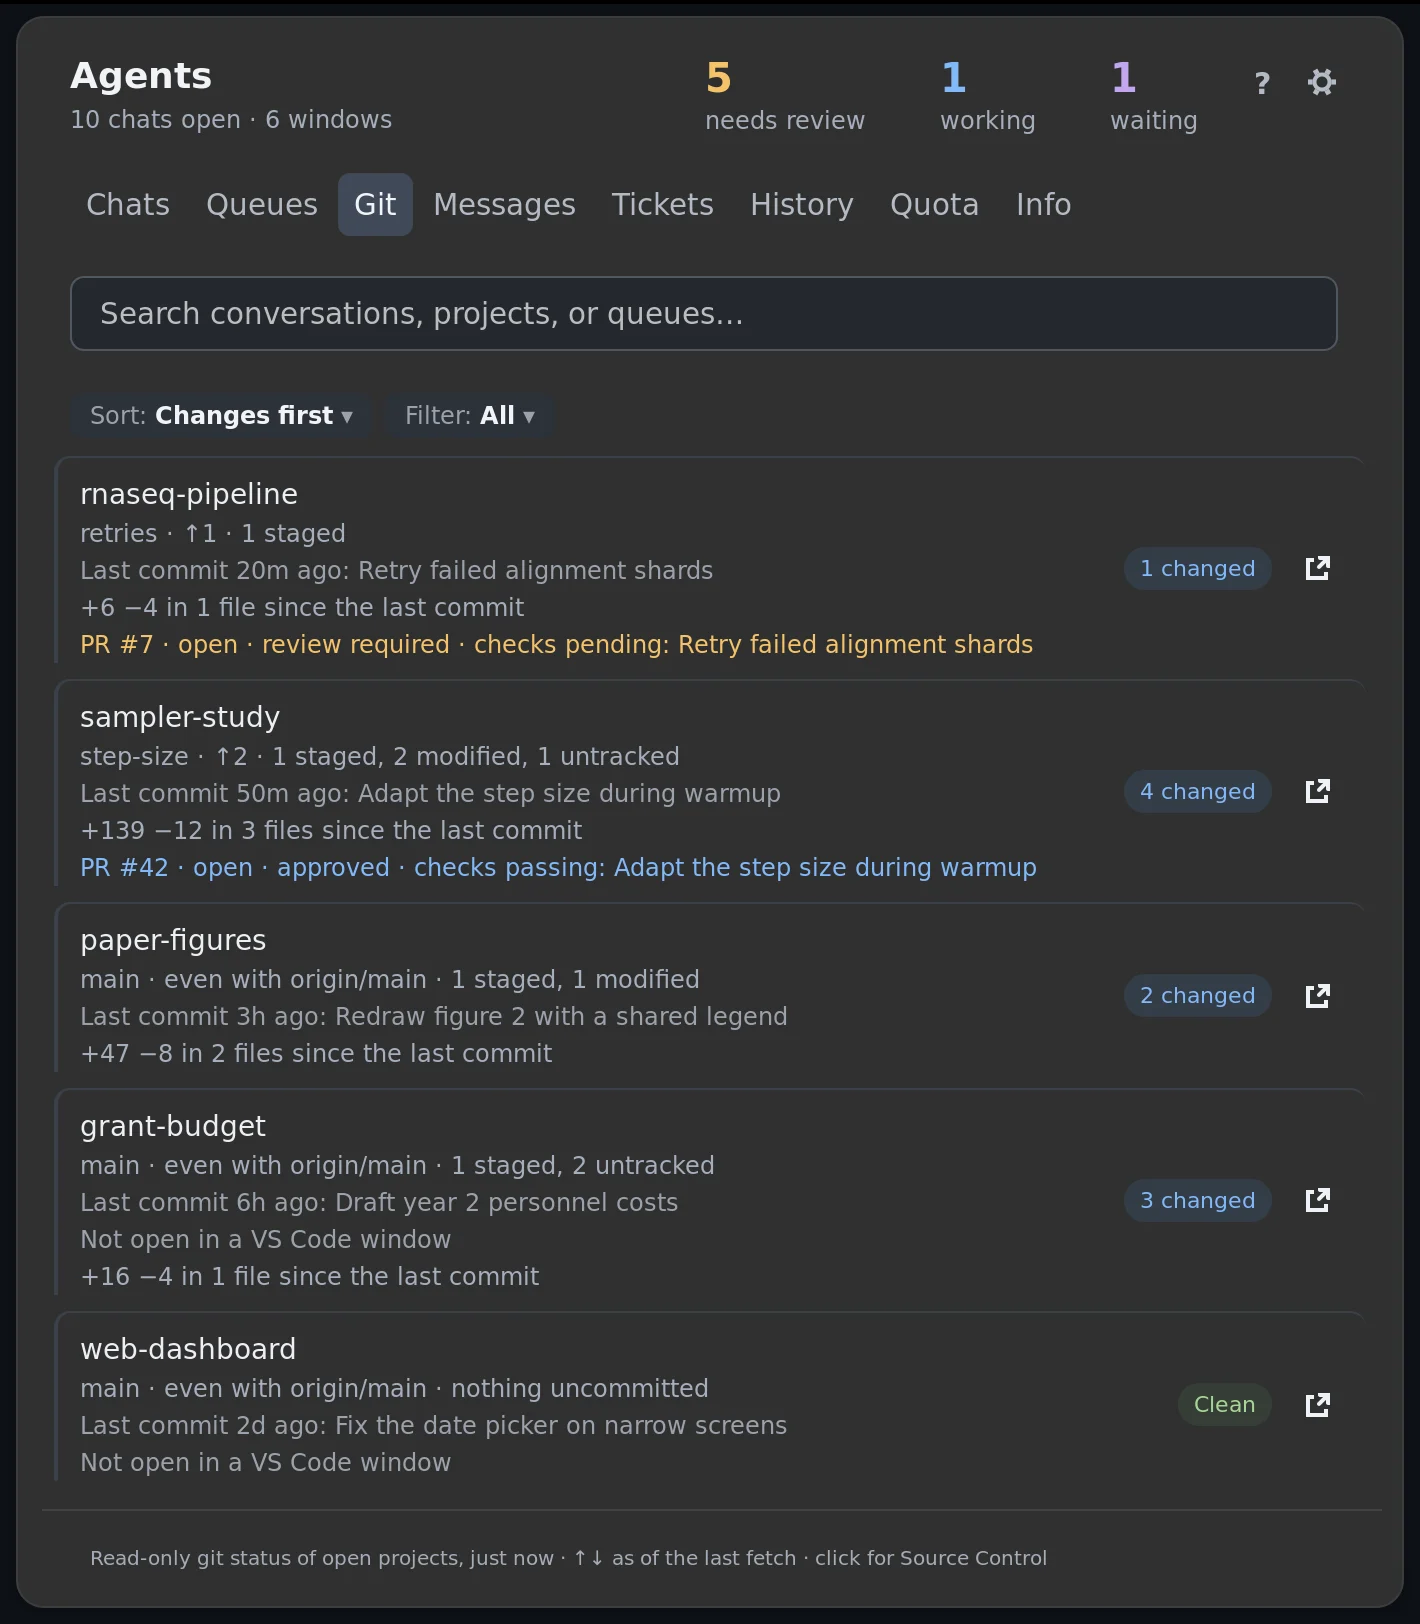
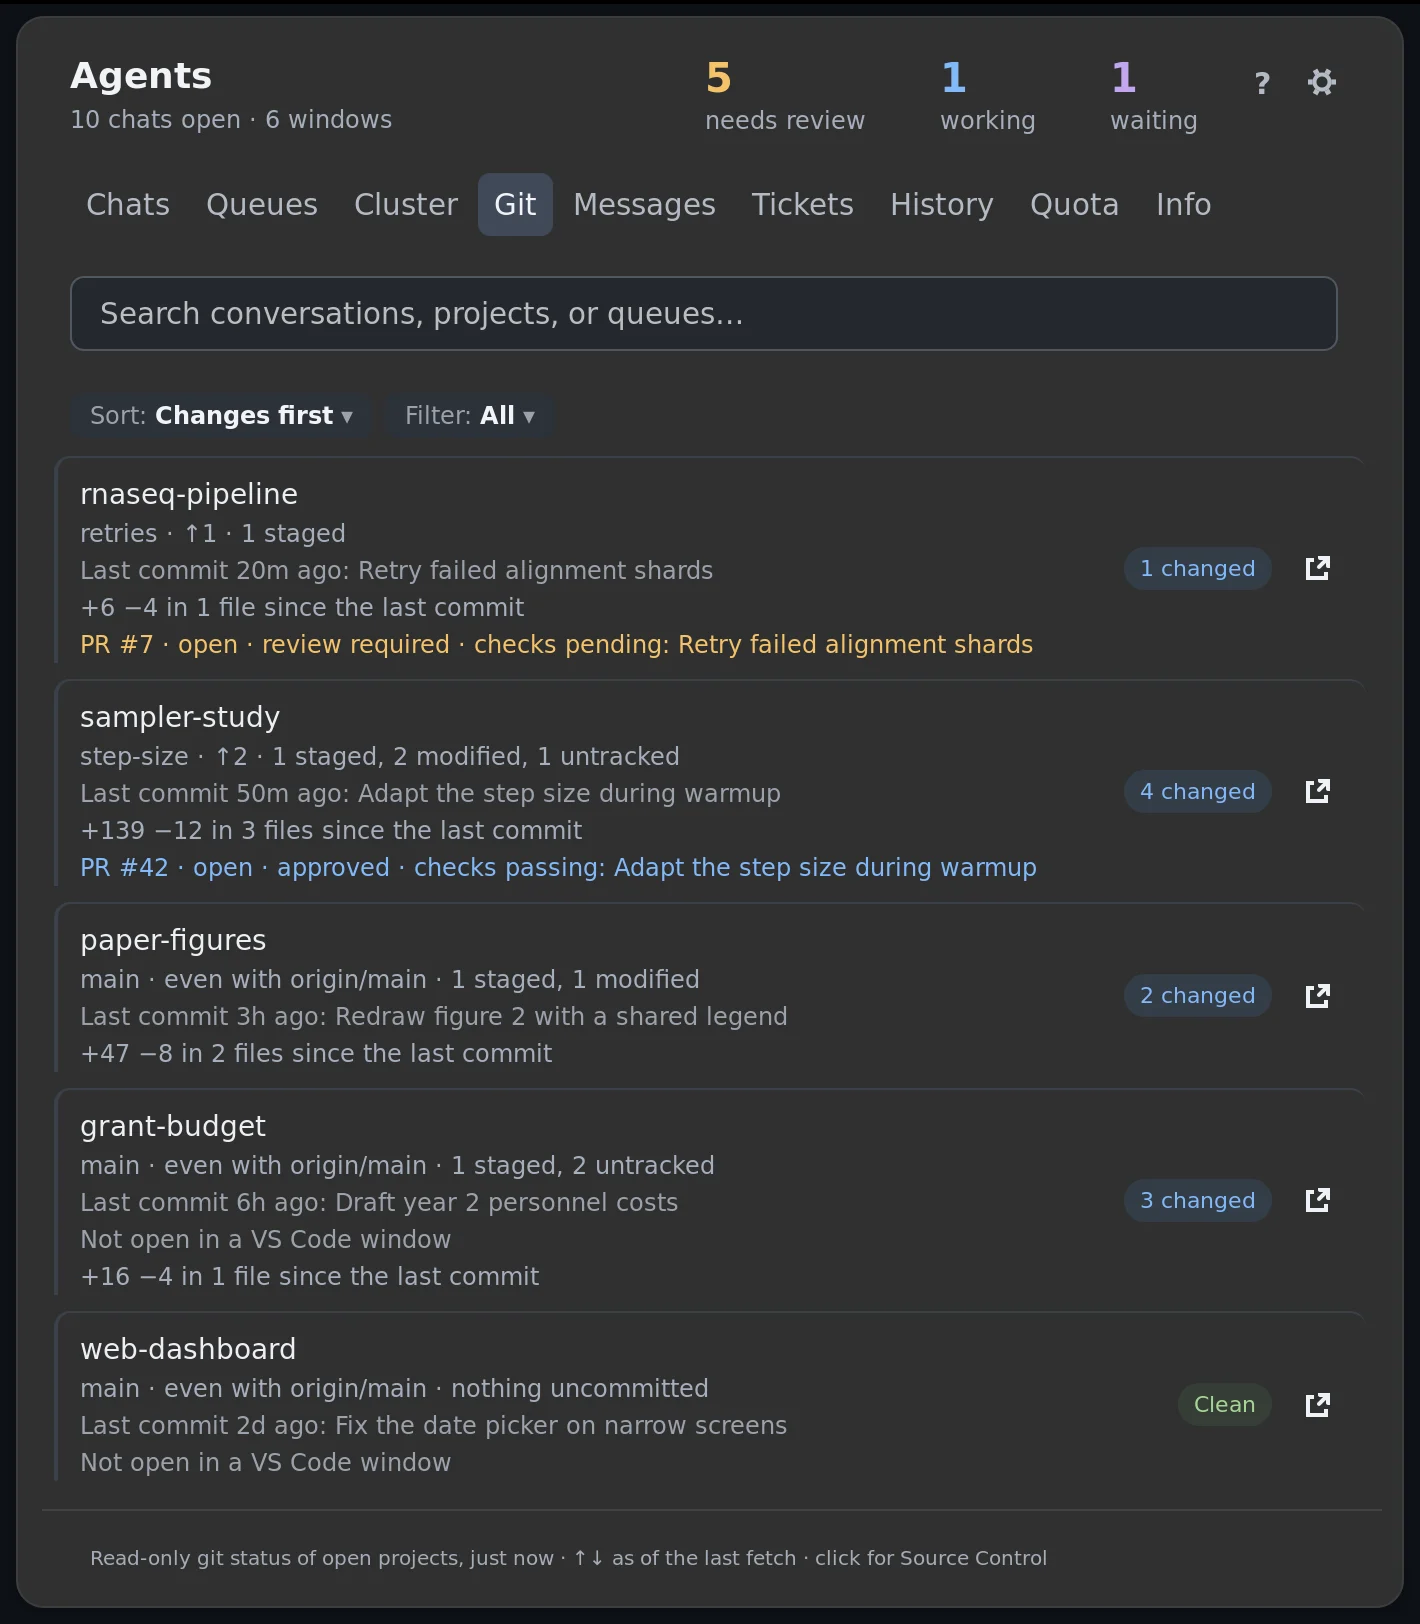
Show the tour with loops and current screenshots
Three caption-free loops from the explainer video (click to chat, history search,
agent messages) and screenshots of the current panel with made-up projects,
including the Cluster tab.

Changed region(s): [[0.2169, 0.0924, 0.4958, 0.1539], [0.6197, 0.1232, 0.7746, 0.1539], [0.5268, 0.1232, 0.5887, 0.1539]]

diff --git a/README.md b/README.md
@@ -10,8 +10,7 @@ other notes and tickets for later, and can follow job queues from the optional R
 It reads only local files that the agent tools already write, plus small hooks that record when a turn starts and
 ends. Nothing leaves your computer unless you turn on reading Claude's usage limits (see [Privacy](#privacy)).
 
-<!-- Placeholder: a short screen recording (GIF or MP4, under 10 MB) of the top bar: a reply finishes, its review
-     button appears, a click brings the chat forward. -->
+<p align="center"><img src="docs/images/click-to-chat.gif" alt="Clicking a chat's review button brings its VS Code window forward, maximized, with that chat showing; clicking again sends it back" width="820"></p>
 
 ## Highlights
 
@@ -53,10 +52,12 @@ prices. History searches every saved Claude Code and Codex conversation, with co
 export.
 
 <p><img src="docs/images/chats.webp" alt="The Chats tab" width="49%"> <img src="docs/images/history.webp" alt="History search with context" width="49%"></p>
+<p><img src="docs/images/history-search.gif" alt="Searching History for words in saved conversations, then showing a hit's context" width="820"></p>
 
 **Messages and tickets.** Agents in different chats leave each other notes, or tickets for work to do later, waiting
 for a usage limit to reset, queues to finish, or a time. Messages can also be scheduled to a chat.
 
+<p><img src="docs/images/agent-messages.gif" alt="A Codex chat sends a Claude Code chat a message with agent-bar send; the Claude chat sees it at its next turn" width="820"></p>
 <p><img src="docs/images/messages.webp" alt="The Messages tab" width="49%"> <img src="docs/images/tickets.webp" alt="The Tickets tab" width="49%"></p>
 
 **Quota, Git and Info.** Each provider's 5-hour, weekly and per-model limits, the pace, and when you would run out
@@ -69,7 +70,7 @@ files.
 **Queues and Cluster** (with Rota). Job queues per project, adjustable from the bar, and each host's CPU,
 memory and disk.
 
-<p><img src="docs/images/queues.webp" alt="The Queues tab" width="49%"></p>
+<p><img src="docs/images/queues.webp" alt="The Queues tab" width="49%"> <img src="docs/images/cluster.webp" alt="The Cluster tab" width="49%"></p>
 
 The [user guide](docs/guide.md) describes every part in detail.
 
